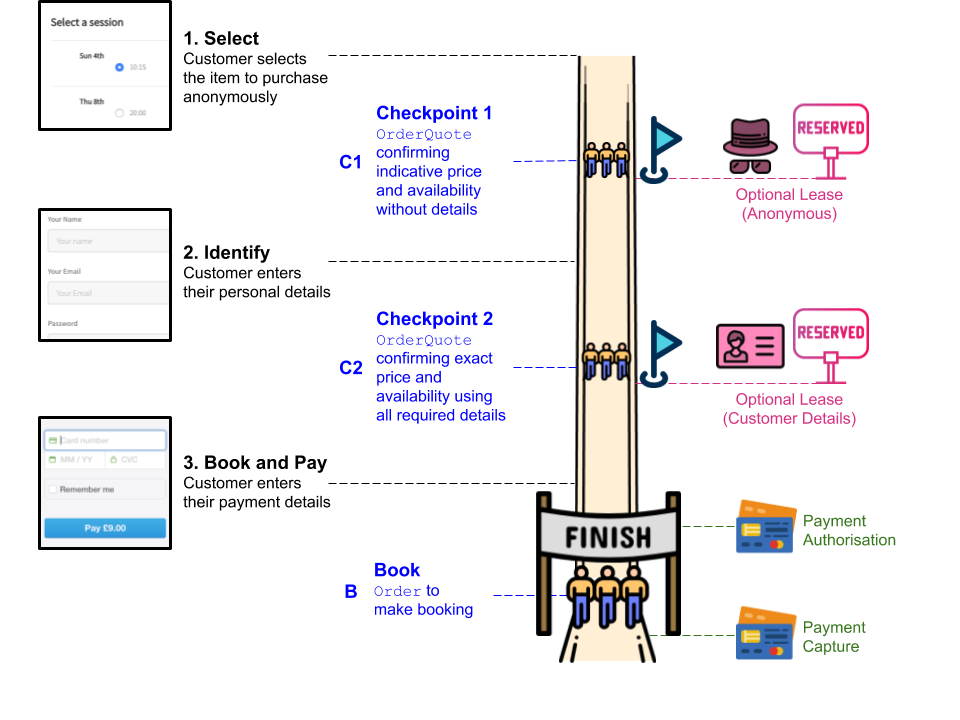
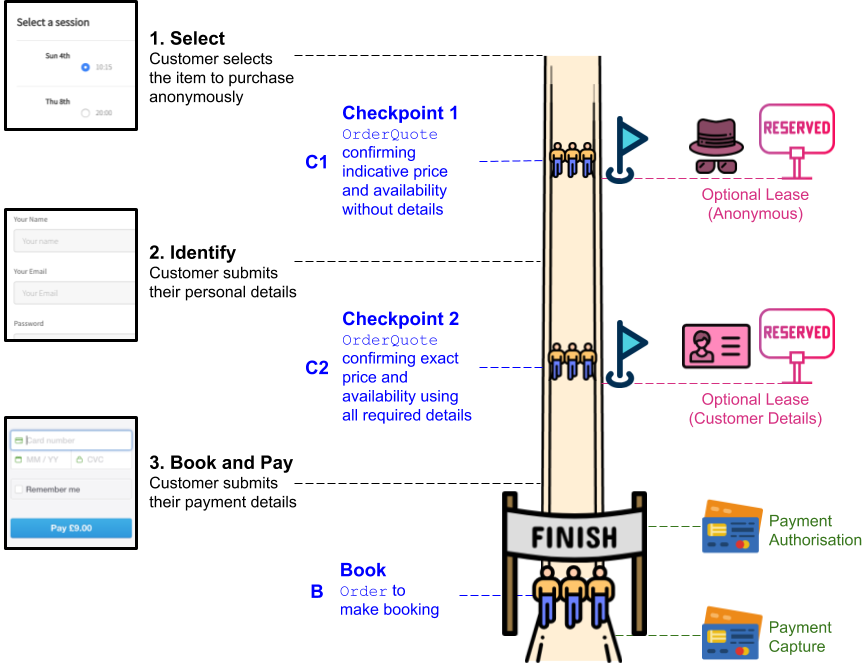
Updates based on feedback

diff --git a/EditorsDraft/edit.html b/EditorsDraft/edit.html
@@ -89,22 +89,22 @@
 
                 },
                 "Modelling-Opportunity-Data": {
-                    "href": "https://openactive.io/modelling-opportunity-data/",
+                    "href": "https://www.openactive.io/modelling-opportunity-data/",
                     "title": "Modelling Opportunity Data",
                     "publisher": "OpenActive Community Group",
                 },
                 "Dataset-API-Discovery": {
-                    "href": "https://openactive.io/dataset-api-discovery/EditorsDraft/",
+                    "href": "https://www.openactive.io/dataset-api-discovery/EditorsDraft/",
                     "title": "Dataset API Discovery",
                     "publisher": "OpenActive Community Group",
                 },
                 "RPDE": {
-                    "href": "https://openactive.io/realtime-paged-data-exchange/",
+                    "href": "https://www.openactive.io/realtime-paged-data-exchange/",
                     "title": "Realtime Paged Data Exchange",
                     "publisher": "OpenActive Community Group",
                 },
                 "OpenActive-Vocabulary": {
-                    "href": "https://openactive.io/ns/",
+                    "href": "https://www.openactive.io/ns/",
                     "title": "OpenActive Vocabulary",
                     "publisher": "OpenActive Community Group",
                 },
@@ -487,8 +487,8 @@ The booking journey of a <a>Customer</a> is generalised into the following logic
 </figure>
 
 1. **Select**: <a>Customer</a> selects at least one <a>Opportunity</a> (e.g. `ScheduledSession` or `Slot`) and an associated `Offer` ("Junior (8-18) £9")
-2. **Identify**: <a>Customer</a> enters personal details and other requested details
-3. **Book and Pay**: <a>Customer</a> enters payment details
+2. **Identify**: <a>Customer</a> submits personal details and other requested details
+3. **Book and Pay**: <a>Customer</a> submits payment details
 
 Note that some or all steps may be skipped, or may not be presented to the user, e.g. if their registration or payment details are already known, or they are using a voice interface. These steps are not indicative of the user experience, and simply provide a common language around the flow.
 
@@ -605,7 +605,7 @@ iv) **OrderQuote Creation / C2** - <a>Broker</a> call with `OrderQuote` includin
 
   - <a>Booking System</a> creates named lease for that UUID if it is supported, otherwise it provides a simple availability and `totalPaymentDue` confirmation. Works exactly as **C1**, except validates `customer` details and the `orderItemIntakeFormResponse`.
   - <a>Broker</a> presents the contents of the `OrderQuote` to the `Customer` to ensure they have the most up-to-date price and availability before proceeding with the purchase.
-  - If there are any issues with the `OrderItem`s requested in the `OrderQuote`, the <a>Booking System</a> MUST respond with a `409 Conflict` response, with `error` details provided against each offending `OrderItem` - including if an `OrderItem` is no longer available, or cannot be purchased in combination with another `OrderItem`.
+  - If there are any issues with the `OrderItem`s requested in the `OrderQuote`, the <a>Booking System</a> MUST respond with a `409 Conflict` response, with `error` details provided against each offending `OrderItem` - including if an `OrderItem` is no longer available, cannot be purchased in combination with another `OrderItem`, or does not contain a sufficient `orderItemIntakeFormResponse`.
   - Any `error`s must be resolved by the <a>Customer</a> or <a>Broker</a> before proceeding, by amending the `OrderItem`s included in the `OrderQuote` and resubmitting until an `OrderQuote` is returned without `error`s.
 
 
@@ -758,8 +758,8 @@ The booking journey of a <a>Customer</a> is generalised into the following logic
 The steps exactly mirror the Simple Booking Flow, with two additions:
 
 1. **Select**: <a>Customer</a> selects at least one <a>Opportunity</a> (e.g. `ScheduledSession` or `Slot`) and an associated `Offer` ("Junior (8-18) £9")
-2. **Identify**: <a>Customer</a> enters personal details and other requested details
-   1. **Propose**: <a>Customer</a> enters payment details, and submits a proposed booking
+2. **Identify**: <a>Customer</a> submits personal details and other requested details
+   1. **Propose**: <a>Customer</a> submits payment details, and submits a proposed booking
    2. **Approve**: <a>Seller</a> approves the booking, after a period of time
 3. **Book and Pay**: <a>Customer</a> confirms they are happy to proceed
 
@@ -893,7 +893,7 @@ For an `Order` that requires approval, the flow differs from the above as follow
 - The `OrderProposal` MAY include an `orderCustomerNote` in order to "Ask a question about this opportunity?".
 - Additional data is supplied at **C1** and **C2** as in the Simple Booking Flow to satisfy the `orderItemIntakeForm` for all `OrderItems`.
 - The `totalPaymentDue` from **C2** is used for Payment Authorisation as with the Simple Booking Flow.
-- An additional step **P** is required after **C2** where the <a>Broker</a> submits the completed `OrderProposal` to the <a>Booking System</a>, which returns an `OrderProposal` that the <a>Broker</a> MUST store, with `orderProposalStatus` set to `https://openactive.io/AwaitingSellerConfirmation`. The call is atomic. The returned `OrderProposal` also contains an `orderProposalVersion` (constructed from the `id` of the `OrderProposal` combined an additional version UUID, e.g. `https://api.example.com/order-proposals/358105b4-e571-43fa-b737-906d319c6a32/version/8eb1a6ce-3f5b-40b0-87a7-bddb4c5518bd`).
+- An additional step **P** is required after **C2** where the <a>Broker</a> submits the completed `OrderProposal` to the <a>Booking System</a>, which returns an `OrderProposal` that the <a>Broker</a> MUST store, with `orderProposalStatus` set to `https://openactive.io/AwaitingSellerConfirmation`. The call is atomic. The returned `OrderProposal` also contains an `orderProposalVersion` (constructed from the `id` of the `OrderProposal` combined an additional version UUID, e.g. `https://api.example.com/order-proposals/358105b4-e571-43fa-b737-906d319c6a32/version/8eb1a6ce-3f5b-40b0-87a7-bddb4c5518bd`). Note that as with **B**, the `OrderProposal` from **P** will not be present in the <a>Orders feed</a> until it is updated at least once.
 - Once approved, the <a>Booking System</a> puts the updated `OrderProposal` onto the <a>Orders feed</a> (**A**), with either an unchanged `orderProposalVersion` (see **Minimal Implementation**) or a new `orderProposalVersion` (see **Proposal Amendment**).
 - If required due to expiration of the existing Payment Authorisation or a change in the `totalPaymentDue`, the payment can be re-authorised before **B**. 
 - The <a>Broker</a> supplies a minimal `Order` to **B** that just contains this `orderProposalVersion`, and continues the flow as per the Simple Booking Flow.
@@ -932,9 +932,22 @@ Note that these are _not_ the details of attendees, and that the <a>Customer</a>
 
 ### Attendee Details
 
-Although this specification does not provide a mechanism to negotiate on the required fields of attendee details, it provides a means of consistently supplying attendee details against each `OrderItem`, using the `attendee` property.
+If attendee details in scope of the `Person` type are captured, they MUST be captured via the `attendee` property of the `OrderItem` (and not using the `orderItemIntakeForm`). This allows attendee details to be stored and reused by the <a>Broker</a>.
 
-Note that conformance with this specification requires that the <a>Booking System</a> MUST NOT _require_ attendee data to be entered, and that the agreement to supply such data must be handled out-of-band between the <a>Broker</a> and the <a>Seller</a>.
+Note that conformance with this specification requires that the <a>Booking System</a> MUST NOT _require_ attendee data to be submitted in all cases, and that configuration of which attendee details are required (if any) MUST be available to the <a>Seller</a>.
+
+If an `Offer` requires attendee details capture, the <a>Booking System</a> MUST include the `openBookingFlowRequirement` of `https://openactive.io/OpenBookingAttendeeDetails` in the `Offer`s within its open data. This allows <a>Brokers</a> that do not support attendee details capture to easily filter out such offers from their experience.
+
+<pre class="example" title="Example of attendeeDetailsRequired provided by Booking System at C1">
+  {
+    "type": "OrderItem",
+    ...
+    "attendeeDetailsRequired": [
+      "https://schema.org/givenName",
+      "https://schema.org/familyName"
+    ],
+  }
+</pre>
 
 <pre class="example" title="Example of attendee details provided with each OrderItem at C2">
   {
@@ -950,7 +963,24 @@ Note that conformance with this specification requires that the <a>Booking Syste
   }
 </pre>
 
-The <a>Broker</a> MAY remember the attendee data previously entered by the <a>Customer</a>, if consent is provided.
+If a required property within `Person` is not supplied by the <a>Broker</a> the <a>Booking System</a> MUST include an `IncompleteAttendeeDetailsError` against the offending `OrderItem` at **C2** which includes an `instance` that references the `id` of the missing or invalid `Property`.
+
+<pre class="example" title="Example of an error for missing attendee property data">
+  {
+    "type": "OrderItem",
+    ...
+    "error": [
+      {
+        "type": "IncompleteAttendeeDetailsError",
+        "instance": "https://schema.org/givenName",
+        "description": "Missing attendee first name"
+      }
+    ]
+  }
+</pre>
+
+The <a>Broker</a> MAY remember the attendee data previously submitted by the <a>Customer</a>, if consent is provided.
+
 
 ### Additional Details
 
@@ -968,7 +998,7 @@ If an `Offer` requires additional details capture, the <a>Booking System</a> MUS
         "id": "https://example.com/experience",
         "name": "More information about you",
         "description": "Have you played before? Are you a complete beginner or seasoned pro?",
-        "valueRequired": false
+        "valueRequired": true
       }
     ]
   }
@@ -988,7 +1018,23 @@ If an `Offer` requires additional details capture, the <a>Booking System</a> MUS
   }
 </pre>
 
-The <a>Broker</a> MAY remember the values previously entered by the <a>Customer</a> based on the `id` of the `PropertyValueSpecification`, if consent is provided.
+If a field with `valueRequired` is not supplied by the <a>Broker</a> the <a>Booking System</a> MUST include an `IncompleteIntakeFormError` against the offending `OrderItem` at **C2** which includes an `instance` that references the `id` of the `PropertyValueSpecification`.
+
+<pre class="example" title="Example of an error for missing additional details field data">
+  {
+    "type": "OrderItem",
+    ...
+    "error": [
+      {
+        "type": "IncompleteIntakeFormError",
+        "instance": "https://example.com/experience",
+        "description": "Incomplete additional details supplied"
+      }
+    ]
+  }
+</pre>
+
+The <a>Broker</a> MAY remember the values previously submitted by the <a>Customer</a> based on the `id` of the `PropertyValueSpecification`, if consent is provided.
 
 It is expected that future versions of the specification will support more complex field types.
 
@@ -1617,20 +1663,20 @@ A summary of endpoints defined by this specification is provided below:
 | Orders RPDE Feed             | REQUIRED    | Yes  | Orders feed      | GET       | `/orders-rpde`                 |
 | Order Status                 | RECOMMENDED | Yes  | Order            | GET       | `/orders/{uuid}`               |
 
-Note that in simple implementations, OrderQuote Creation C1 and OrderQuote Creation C2 can be considered as exactly the same endpoint.
+Note that for simple implementation, OrderQuote Creation C1 and OrderQuote Creation C2 can be exactly the same endpoint.
 
-### Order Semantics
+### Order Endpoint RESTful Semantics
 
-Note that practically all `Order` endpoints above (those that relate to `Order` or its subclasses `OrderQuote` and `OrderProposal`) all share the same UUID namespace, and can be successfully implemented with a single underlying `Order` record behind them all. The split of these endpoints exists purely to reduce the logic required in each and to increase testability and maintainability.
+Note that practically all `Order` endpoints above (those that relate to `Order` or its subclasses `OrderQuote` and `OrderProposal`) share the same UUID namespace, and can be successfully implemented with a single underlying `Order` record behind them all. These endpoints are distinct purely to reduce the logic required in each and to increase testability and maintainability.
 
 An `Order` with a particular UUID MUST only exist as either an `Order`, `OrderQuote` or `OrderProposal` at a single point in time.
 
 Hence the Order Status endpoint SHOULD return any stored `Order`, `OrderQuote` or `OrderProposal` with that UUID, and the <a>Orders Feed</a> MUST return both `Order` and `OrderProposal` items (noting that `OrderQuote` are not included in the <a>Orders Feed</a>).
 
 To aid the reader in their semantic reasoning, from a REST perspective, there are four resources:
-- `/order-quote-templates/` and `/order-quotes/` - both are a collection resource of `OrderQuote`s. These are always ephemeral, so are created only for the duration of the PUT request, unless the <a>Booking System</a> chooses to persist them, in which case they exist until the lease expires or an `OrderProposal` or `Order` is created.
-- `/order-proposals/` - a collection resource of `OrderProposal`s, which are deleted when a corresponding `Order` is created.
-- `/orders/` - a collection resource of `Order`s which includes its subclasses `OrderQuote`s and `OrderProposal`s
+- `/order-quote-templates` and `/order-quotes` - both are a collection resource of `OrderQuote`s. These are always ephemeral, so are created only for the duration of the PUT request, unless the <a>Booking System</a> chooses to persist them, in which case they exist until the lease expires or an `OrderProposal` or `Order` is created.
+- `/order-proposals` - a collection resource of `OrderProposal`s, which are deleted when a corresponding `Order` is created.
+- `/orders` - a collection resource of `Order`s which includes its subclasses `OrderQuote`s and `OrderProposal`s
 
 
 
@@ -1698,6 +1744,9 @@ Both `OrderQuote` and `Order` responses can optionally reflect back properties p
 </pre>
 
 If there are issues any properties of the `Order`, including the `orderedItem`, the <a>Booking System</a> MUST respond with a `400 Bad Request` response which includes only the appropriate `Error`. The <a>Broker</a> is expected to retry the `OrderQuote` to get specific `orderedItem` level errors.
+
+### Order Proposal
+
 
 
 ### Order Deletion
@@ -1898,6 +1947,7 @@ The `broker` is specified with each `Order` to account for scenarios where multi
 | [`oa:error`](https://openactive.io/error)                          | -        | REQUIRED    | Array of [`oa:OpenBookingError`](https://openactive.io/OpenBookingError) | Array of errors related to the OrderItem being included in the Order, only applicable for an `OrderQuote`. |
 | [`oa:cancellationMessage`](https://openactive.io/cancellationMessage) | -     | OPTIONAL    | [`schema:Text`](https://schema.org/Text) | A message set by the <a>Seller</a> in the event of opportunity cancellation, only applicable for an `Order` and where the `OrderItem` has `orderItemStatus` set to `https://openactive.io/SellerCancelled` |
 | [`schema:attendee`](http://schema.org/attendee)                    | OPTIONAL | OPTIONAL | -        | [`schema:Person`](https://schema.org/Person) | The person attending the <a>Opportunity</a> related to the `OrderItem`. |
+| [`oa:attendeeDetailsRequired`](http://openactive.io/attendeeDetailsRequired) | OPTIONAL | OPTIONAL | - | Array of [`schema:Property`](https://schema.org/Property) | The properties of `schema:Person` that are required for this `OrderItem`. |
 | [`oa:orderItemIntakeForm`](https://openactive.io/orderItemIntakeForm) | -        | OPTIONAL | Array of [`schema:PropertyValueSpecification`](https://schema.org/PropertyValueSpecification) | `PropertyValueSpecification`s that describe fields in the `orderItemIntakeForm`. |
 | [`oa:orderItemIntakeFormResponse`](https://openactive.io/orderItemIntakeFormResponse) | OPTIONAL | OPTIONAL | Array of [`schema:PropertyValue`](https://schema.org/PropertyValue) | `PropertyValue`s that contains a text value responses to the `orderItemIntakeForm`. |
 
@@ -1916,7 +1966,7 @@ Use of properties of `Offer` defined in the [[Modelling-Opportunity-Data]] are a
 | [`oa:availableChannel`](https://openactive.io/availableChannel)    | REQUIRED | REQUIRED | Array of [`oa:AvailableChannelType`](https://openactive.io/AvailableChannelType) | Can include `https://openactive.io/OpenBookingPrepayment`, `https://openactive.io/TelephoneAdvanceBooking`, `https://openactive.io/TelephonePrepayment`, `https://openactive.io/OnlinePrepayment` |
 | [`oa:validFromBeforeStartDate`](https://openactive.io/validFromBeforeStartDate) | - | OPTIONAL | [`schema:Duration`](https://schema.org/Duration) | The duration before the `startDate` for which this Offer is valid, given in [ISO8601] format. This is a relative equivalent of [`schema:validFrom`](http://schema.org/validFrom), to allow for Offer inheritance. |
 | [`oa:latestCancellationBeforeStartDate`](https://openactive.io/latestCancellationBeforeStartDate) | - | OPTIONAL | [`schema:Duration`](https://schema.org/Duration) | The duration before the `startDate` during which this Offer may **not** be cancelled, given in [ISO8601] format. |
-| [`oa:openBookingFlowRequirement`](https://openactive.io/openBookingFlowRequirement)    | OPTIONAL | OPTIONAL | Array of [`oa:OpenBookingFlowRequirement`](https://openactive.io/AvailableChannelType) | Can include `https://openactive.io/OpenBookingIntakeForm`, `https://openactive.io/OpenBookingApproval`, `https://openactive.io/OpenBookingNegotiation` |
+| [`oa:openBookingFlowRequirement`](https://openactive.io/openBookingFlowRequirement)    | OPTIONAL | OPTIONAL | Array of [`oa:OpenBookingFlowRequirement`](https://openactive.io/OpenBookingFlowRequirement) | Can include `https://openactive.io/OpenBookingIntakeForm`, `https://openactive.io/OpenBookingAttendeeDetails`, `https://openactive.io/OpenBookingApproval`, `https://openactive.io/OpenBookingNegotiation` |
 
 Note that for an `Offer` to be bookable under this specification, `availableChannel` must include `https://openactive.io/OpenBookingPrepayment`.
 
@@ -1940,6 +1990,8 @@ Note that for an `Offer` to be bookable under this specification, `availableChan
 ### `schema:Person`
 
 For business-to-consumer transactions, the `customer` MUST be a `schema:Person`.
+
+The required fields below relate to a `schema:Person` when used in the `customer` property.
 
 | Property                                                           | Broker Request | Booking System Response | Type | Notes |
 |--------------------------------------------------------------------|----------|----------|-|------|
@@ -2105,7 +2157,7 @@ A specific subclass for Terms of Use, to help the <a>Broker</a> distinguish thes
 |--------------------------------------------------------------------|-------------|-|------|
 | `@type`                                                            | REQUIRED    | [`schema:Text`](https://schema.org/Text) | `Error` |
 | [`schema:name`](https://schema.org/name)                           | RECOMMENDED | [`schema:Text`](https://schema.org/Text) | A short, human-readable summary of the problem type. It SHOULD NOT change from occurrence to occurrence of the problem, except for purposes of localization |
-| [`schema:description`](https://openactive.io/detail)               | RECOMMENDED | [`schema:Text`](https://schema.org/Text) | A slightly longer, human-readable summary of the problem type. It largely SHOULD NOT change from occurrence to occurrence of the problem, except for purposes of localization or to provide specific information about why the error occurred in that particular case. |
+| [`schema:description`](https://schema.org/description)               | RECOMMENDED | [`schema:Text`](https://schema.org/Text) | A slightly longer, human-readable summary of the problem type. It largely SHOULD NOT change from occurrence to occurrence of the problem, except for purposes of localization or to provide specific information about why the error occurred in that particular case. |
 | [`oa:instance`](https://openactive.io/instance)                    | RECOMMENDED | [`schema:URL`](https://schema.org/URL) | The requested URL. |
 | [`oa:method`](https://openactive.io/method)                        | RECOMMENDED | [`schema:Text`](https://schema.org/Text) | The method of the request (e.g. GET). |
 | [`oa:status`](https://openactive.io/status)                        | OPTIONAL    | [`schema:Integer`](https://schema.org/Integer) | An integer representing the HTTP status code. |
@@ -2124,9 +2176,12 @@ A number of `OpenBookingError` subclasses are specified to identify the problem 
 | Error Type                                  | Status Code | Use Case                                                                                                                                                                                       |
 |---------------------------------------------|-------------|------------------------------------------------------------------------------------------------------------------------------------------------------------------------------------------------|
 | `IncompleteCustomerDetailsError`            | 400         | If the `email` address of the <a>Customer</a> is not supplied within a `schema:Person` object; or if the `customer` property supplied is not a valid `schema:Person` or `schema:Organization` object. |
+| `IncompleteAttendeeDetailsError`            | 400         | If the `attendeeDetailsRequired` properties of the `attendee` are not supplied within a `schema:Person` object. |
+| `IncompleteIntakeFormError`                 | 400         | If the `orderItemIntakeFormResponse` is missing fields that are specified as `valueRequired` within the `orderItemIntakeForm`. |
 | `IncompleteBrokerDetailsError`              | 400         | If there is insufficient detail in the `schema:Organisation` object describing the <a>Broker</a>; or if the `broker` property supplied is not a valid schema:Organisation object. |
 | `IncompletePaymentDetailsError`             | 400         | If the `payment` property of the `Order` is missing or does not include an `identifier` or `paymentMethod`. |
 | `OrderAlreadyExistsError`                   | 500         | If the UUID used for an `OrderQuote` already represents a completed Order with a different set of `OrderItem`s to those specified (note call to **B** is idempotent for the case where `OrderItem`s match). This happens in the rare event of a UUID clash. |
+
 
 
 #### Order Cancellation - `OrderQuote` and `Order` error responses
